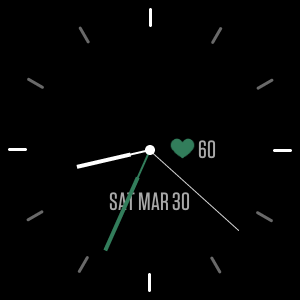
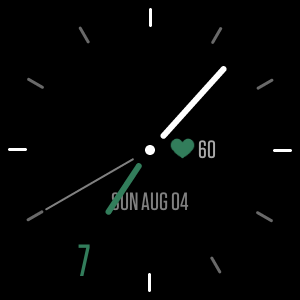
Add hours text because how do clocks work. Color change and style change of clock hands

diff --git a/app/interface.js b/app/interface.js
@@ -4,7 +4,6 @@ import * as util from "../common/utils";
 import { COLORS, FILE_NAME } from "../common/globals.js";
 import { HeartRateSensor } from "heart-rate";
 import { today } from "user-activity";
-import { preferences } from "user-settings";
 
 const hrm = new HeartRateSensor();
 
@@ -17,6 +16,8 @@ export function WatchUI() {
   this.secondaryTexts = {};
   this.timeText = document.getElementById("timeText");
   this.mins = document.getElementById("mins");
+  this.hours = document.getElementById("hours");
+  this.timeBg = document.getElementById("timeBg");
 
   ['date','hr','steps'].map(sid => this.secondaryTexts[sid] = document.getElementById(`${sid}`));
   
@@ -40,7 +41,7 @@ WatchUI.prototype.updatePrimary = function(color) {
   fs.writeFileSync(FILE_NAME, this.fileSettings, "cbor");
   
   this.timeText.style.fill = COLORS[color].color;
-  this.mins.style.fill = COLORS[color].color;
+  this.hours.style.fill = COLORS[color].color;
   
   for (let i in icons) {
     icons[i].style.fill = COLORS[color].color;
@@ -76,8 +77,6 @@ WatchUI.prototype.updateClock = function(evt) {
   let minHand = document.getElementById("mins");
   let secHand = document.getElementById("secs");
   let day;
-  let hours;
-
   
   if (typeof evt === "undefined") {
     day = new Date();
@@ -94,6 +93,13 @@ WatchUI.prototype.updateClock = function(evt) {
   minHand.groupTransform.rotate.angle = util.minutesToAngle(mins);
   secHand.groupTransform.rotate.angle = util.secondsToAngle(secs);
    
+  this.timeText.text = `${a_hours}`
+  let {x, y} = util.hoursToCoord(a_hours);
+  this.timeText.x = x;
+  this.timeText.y = y;
+  this.timeBg.x = x - 20;
+  this.timeBg.y = y - 40;
+
   // if (preferences.clockDisplay === "12h") {
   //   hours = util.zeroPad(hours % 12 || 12).toString();
   // } else {

diff --git a/common/utils.js b/common/utils.js
@@ -22,3 +22,39 @@ export function minutesToAngle(minutes) {
 export function secondsToAngle(seconds) {
   return (360 / 60) * seconds;
 }
+
+export function hoursToCoord(hours) {
+  var ycoords = {
+    "12": 13,
+    "1": 18,
+    "2": 32,
+    "3": 55,
+    "4": 78,
+    "5": 92,
+    "6": 98,
+    "7": 92,
+    "8": 78,
+    "9": 55,
+    "10": 32,
+    "11": 18
+  }
+  var xcoords = {
+    "12": 50,
+    "1": 72,
+    "2": 90,
+    "3": 95,
+    "4": 90,
+    "5": 72,
+    "6": 50,
+    "7": 28,
+    "8": 10,
+    "9": 5,
+    "10": 10,
+    "11": 28
+  }
+
+  return {
+    x: (xcoords[hours] / 100) * 300,
+    y: (ycoords[hours] / 100) * 300
+  }
+}

diff --git a/resources/styles.css b/resources/styles.css
@@ -6,20 +6,23 @@
   fill: white;
 }
 
+#mins {
+  fill: white;
+}
+
 #secs {
-  fill: lightgray;
+  fill: gray;
 }
 
 #timeText {
-  font-size: 100;
+  font-size: 45;
   font-family: Colfax-Bold;
   text-anchor: middle;
   fill: white;
   width: 100%;
-  opacity: 0.2;
   text-length: 5;
   height: 100%;
-  y: 60%;
+  y: 50%;
   x: 50%;
 }
 
@@ -31,7 +34,7 @@
   width: 100%;
   x: 50%;
   y: 30%+120;
-  fill: darkgray;
+  fill: gray;
 }
 
 #stats-cycle {
